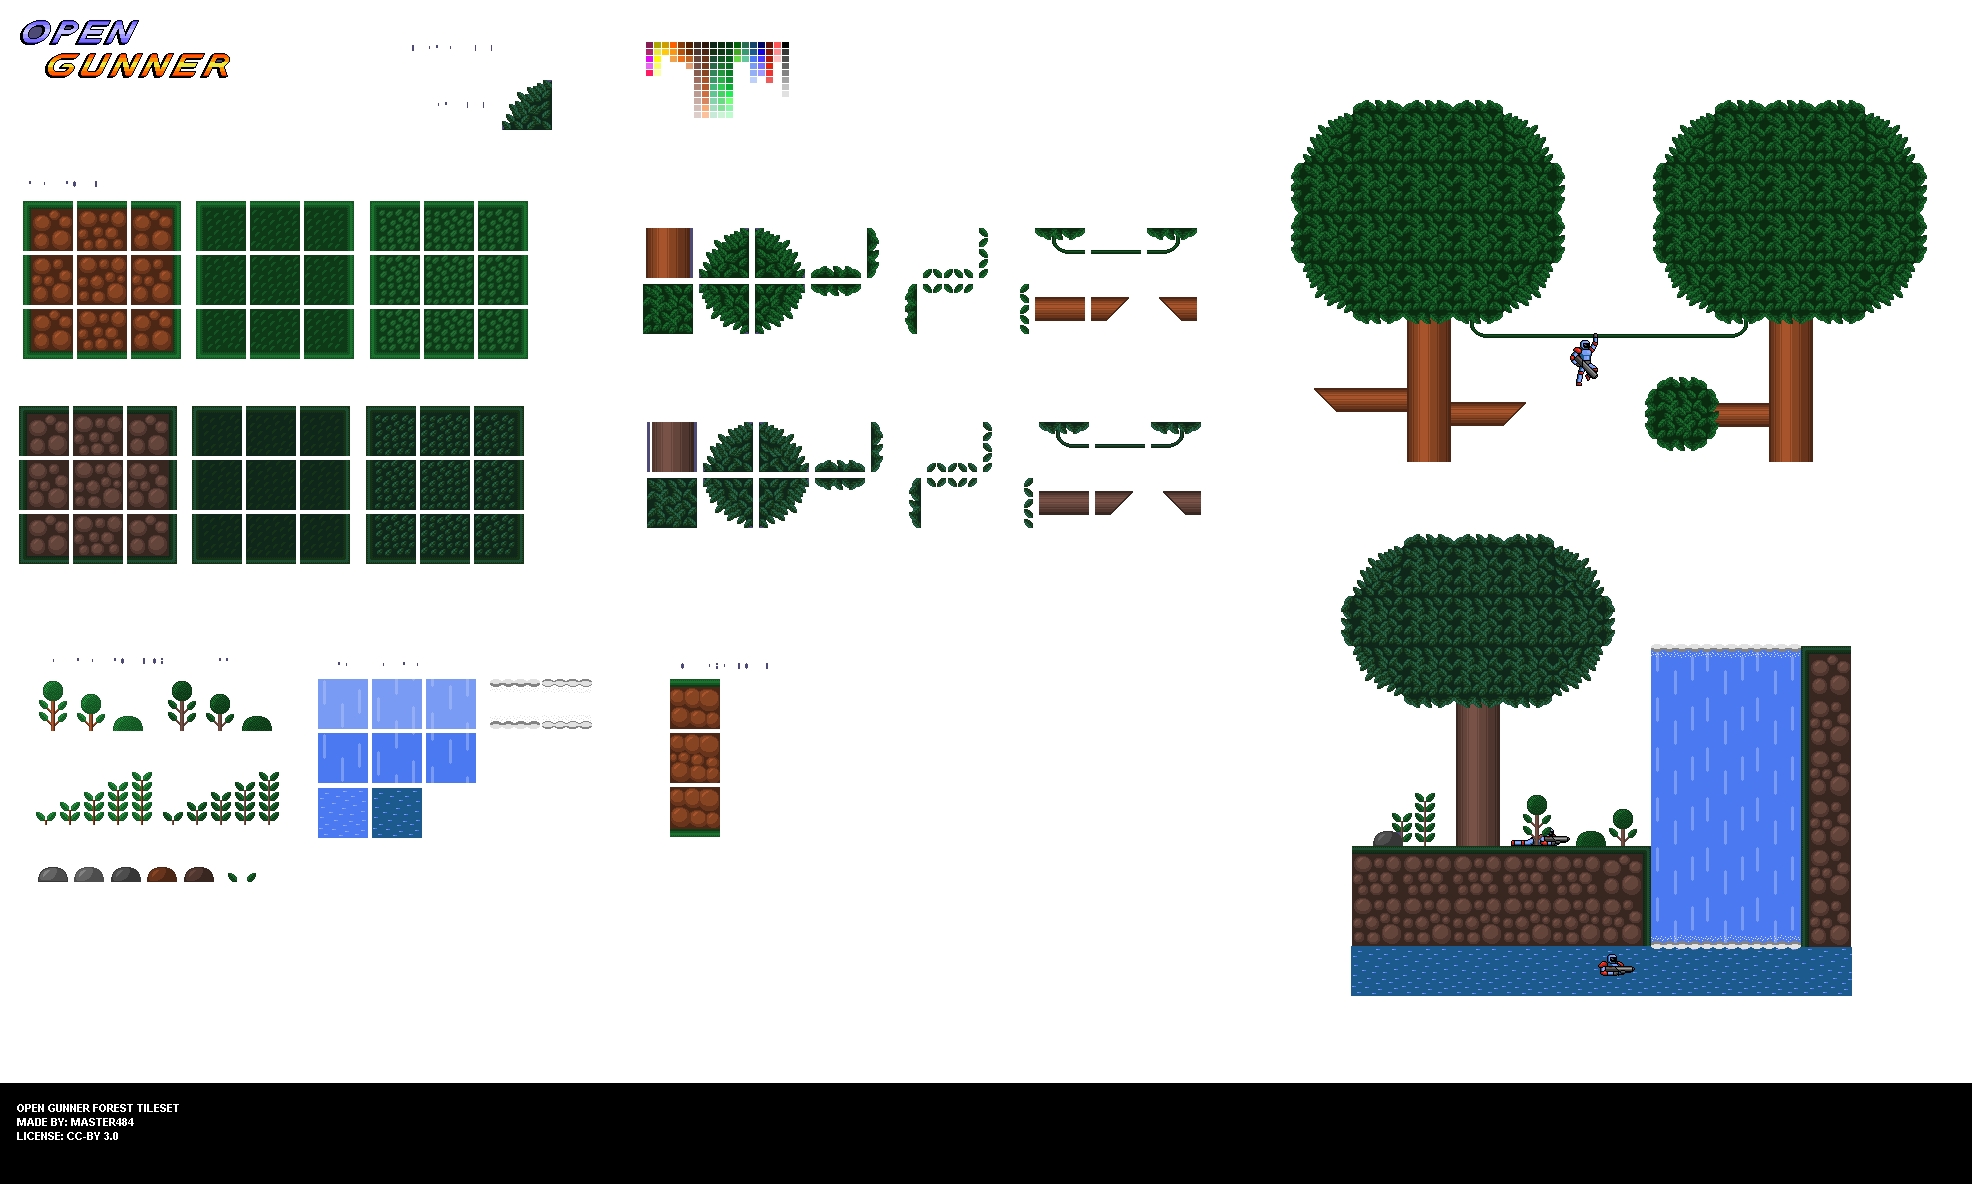
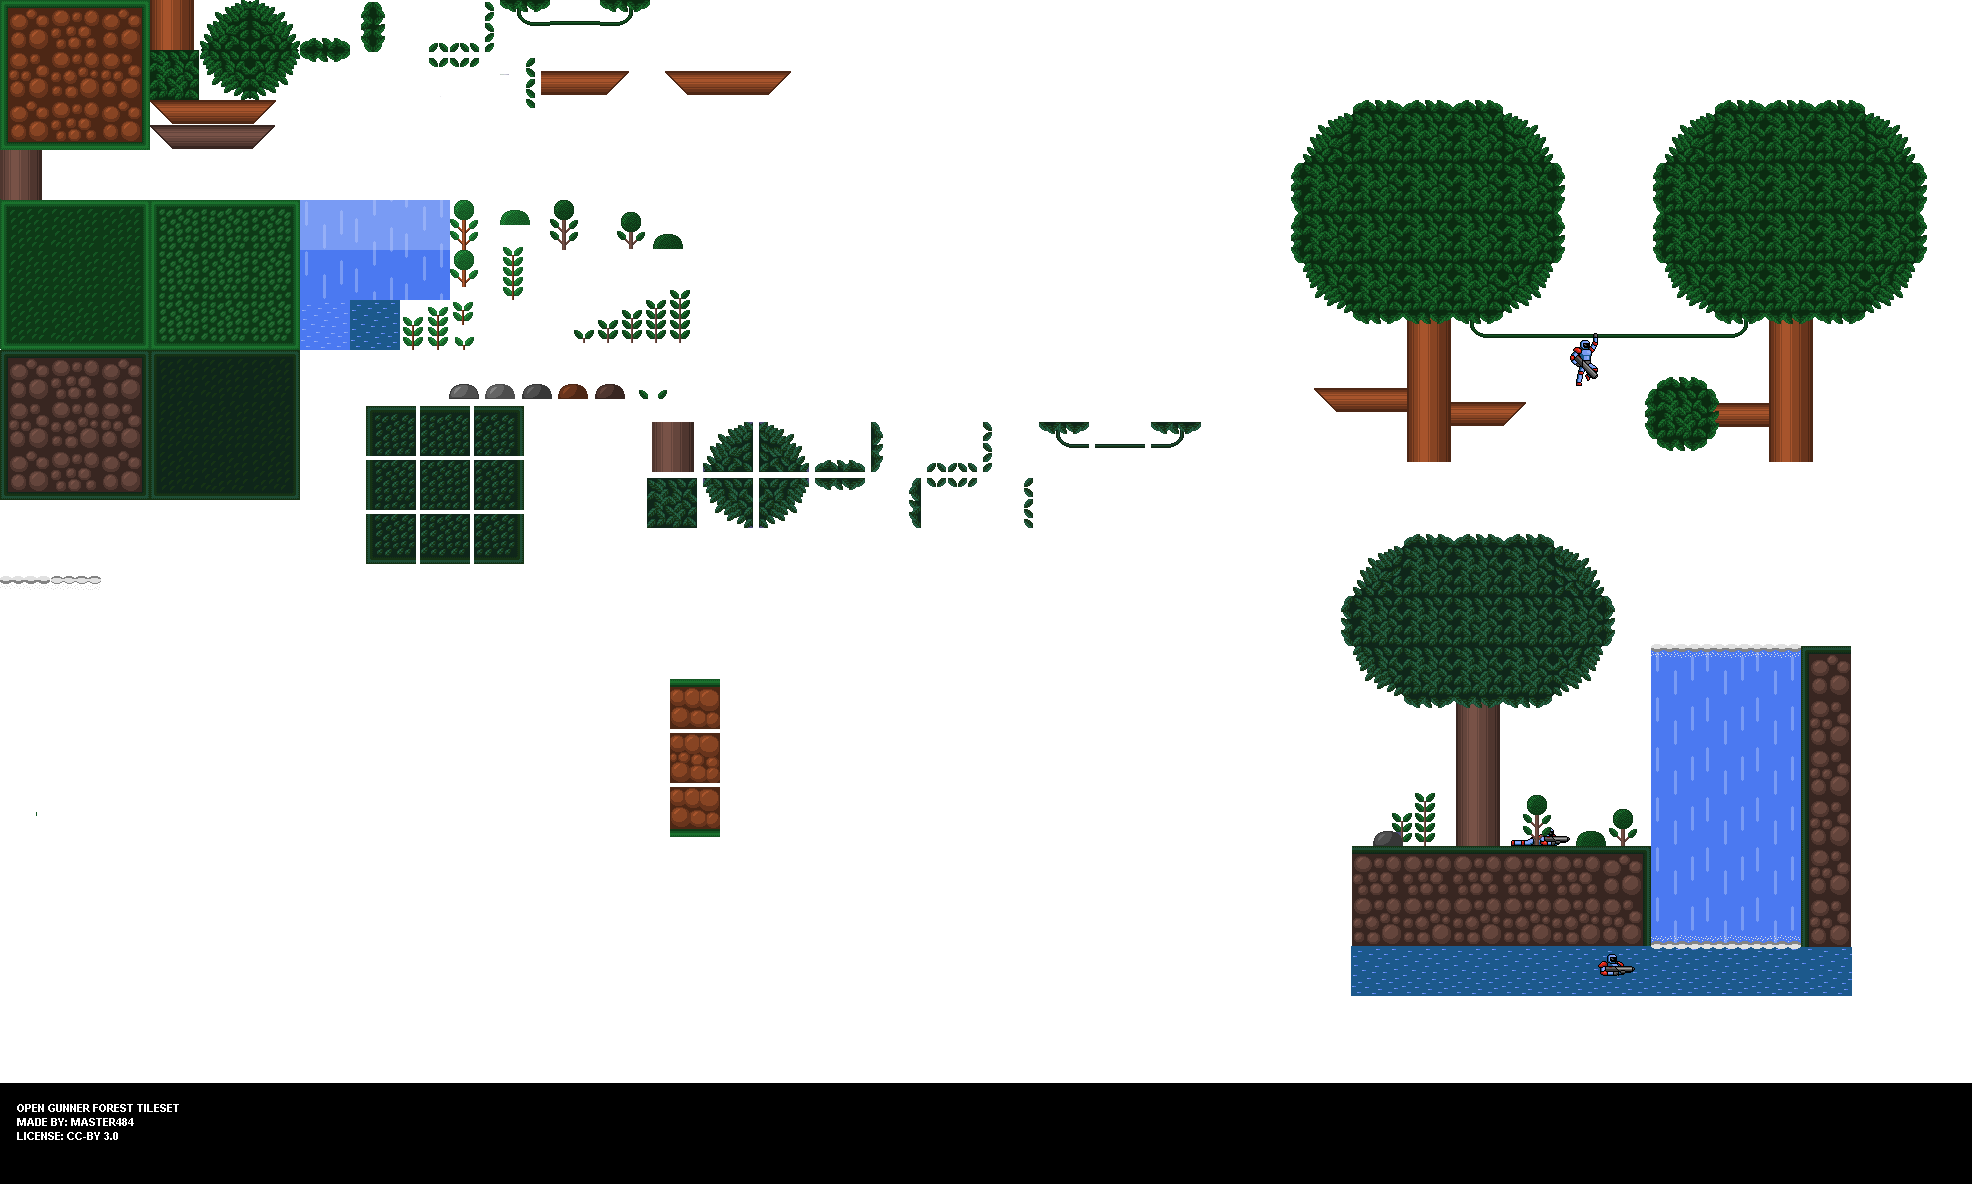
Improved objects drawing. Saved 30% of CPU by a creation of one big image and its presentation instead of drawing 1000 small images.

diff --git a/resources/levels/tiles/OpenGunnerForestTiles-1.tsx b/resources/levels/tiles/OpenGunnerForestTiles-1.tsx
@@ -1,11 +1,4 @@
 <?xml version="1.0" encoding="UTF-8"?>
-<tileset name="OpenGunnerForestTiles-1" tilewidth="25" tileheight="25" margin="25" tilecount="3542" columns="77">
+<tileset name="OpenGunnerForestTiles-1" tilewidth="25" tileheight="25" tilecount="3666" columns="78">
  <image source="../../images/OpenGunnerForestTiles-1.png" width="1972" height="1184"/>
- <terraintypes>
-  <terrain name="ground" tile="-1"/>
- </terraintypes>
- <tile id="541" terrain="0,0,0,0"/>
- <tile id="542" terrain="0,0,0,0"/>
- <tile id="618" terrain="0,0,0,0"/>
- <tile id="619" terrain="0,0,0,0"/>
 </tileset>

diff --git a/src/GameObjects.cpp b/src/GameObjects.cpp
@@ -18,6 +18,7 @@ GameObjects::GameObjects(GameState* gs)
     this->gs = gs;
     fabric = new Fabric(this);
     backgroundSprite = fabric->createSprite("background", 0.f, 0.f);
+   // groundsSprite = fabric->createSprite("grounds", 0.f, 0.f);
     
     heartSprite = fabric->createSprite("heart", 0.f, 0.f);
     heartSprite->setScale(0.5f, 0.5f);
@@ -35,6 +36,8 @@ GameObjects::GameObjects(GameState* gs)
     ammoSprite = fabric->createSprite("ammo", 0.f, 0.f);
     ammoSprite->setScale(0.5f, 0.5f);
     ammoSprite->setTextureRect(sf::IntRect(0, 0, 50, 50));
+    
+    grounds = new sf::RenderTexture;
 }
 
 GameObjects::~GameObjects()
@@ -53,6 +56,7 @@ void GameObjects::reset()
 
 void GameObjects::draw(Window* window, float dt)
 {
+
     sf::Vector2f backgroundCoords = window->mapPixelToCoords(sf::Vector2i(0, 0));
     CObject currentWindow (backgroundCoords.x, backgroundCoords.y, 900, 600);
     CObject back;
@@ -60,16 +64,29 @@ void GameObjects::draw(Window* window, float dt)
     backgroundSprite->setPosition(backgroundCoords.x, backgroundCoords.y-300);
 
     window->draw(*backgroundSprite);
+    
 
     for (unsigned i = 0; i < buttons.size(); i++) {
         buttons[i]->draw(window, dt);
     }
     if (gs->isGameStarted) {
-        for (unsigned i = 0; i < background.size(); i++) {    
-            groundSprite->setTextureRect(sf::IntRect(background[i][2], background[i][3], 25, 25));
-            groundSprite->setPosition(background[i][0], background[i][1]);
-            window->draw(*groundSprite);
-        }
+        if (groundsSprite == nullptr) {
+            grounds->create(5000, 2500);
+
+            for (unsigned i = 0; i < background.size(); i++) {
+                groundSprite->setTextureRect(sf::IntRect(background[i][2], background[i][3], 25, 25));
+                groundSprite->setPosition(background[i][0], background[i][1]);
+                grounds->draw(*groundSprite);
+            }
+
+            grounds->display();
+            const sf::Texture& texture = grounds->getTexture();
+            
+            groundsSprite = new sf::Sprite(texture);
+        } 
+        
+       window->draw(*groundsSprite);
+
         
         for (unsigned i = 0; i < all.size(); i++) {
             if (currentWindow.collideRect(all[i])) {

diff --git a/src/Resources.h b/src/Resources.h
@@ -58,6 +58,7 @@ private:
         {"shooter", "resources/images/OpenGunnerHeroVer2.png"},
         {"explosion", "resources/images/oneshot.png"},
         {"ground", "resources/images/OpenGunnerForestTiles-1.png"},
+        {"grounds", "resources/levels/tiles/training.png"},
         {"heart", "resources/images/heart.png"},
         {"crystal", "resources/images/crystal.png"},
         {"background", "resources/images/background.png"},

diff --git a/src/Map.cpp b/src/Map.cpp
@@ -152,8 +152,8 @@ void Map::generateTIleIdPositions(std::string tileset)
 {
     int width = 1972;
     int height = 1184;
-    int columns = 77;
-    int margin = 25;
+    int columns = 78;
+    int margin = 0;
     int tileWidth = 25;
     int tileHeight = 25;
     int tilecount = 3542;

diff --git a/src/GameObjects.h b/src/GameObjects.h
@@ -37,6 +37,10 @@ struct GameObjects {
     sf::Sprite* heartSprite;
     sf::Sprite* crystalSprite;
     sf::Sprite* ammoSprite;
+    
+    sf::RenderTexture* grounds;
+    sf::Sprite* groundsSprite;
+    
     Text* cristalCountText;
     Text* ammoCountText;
     /**
